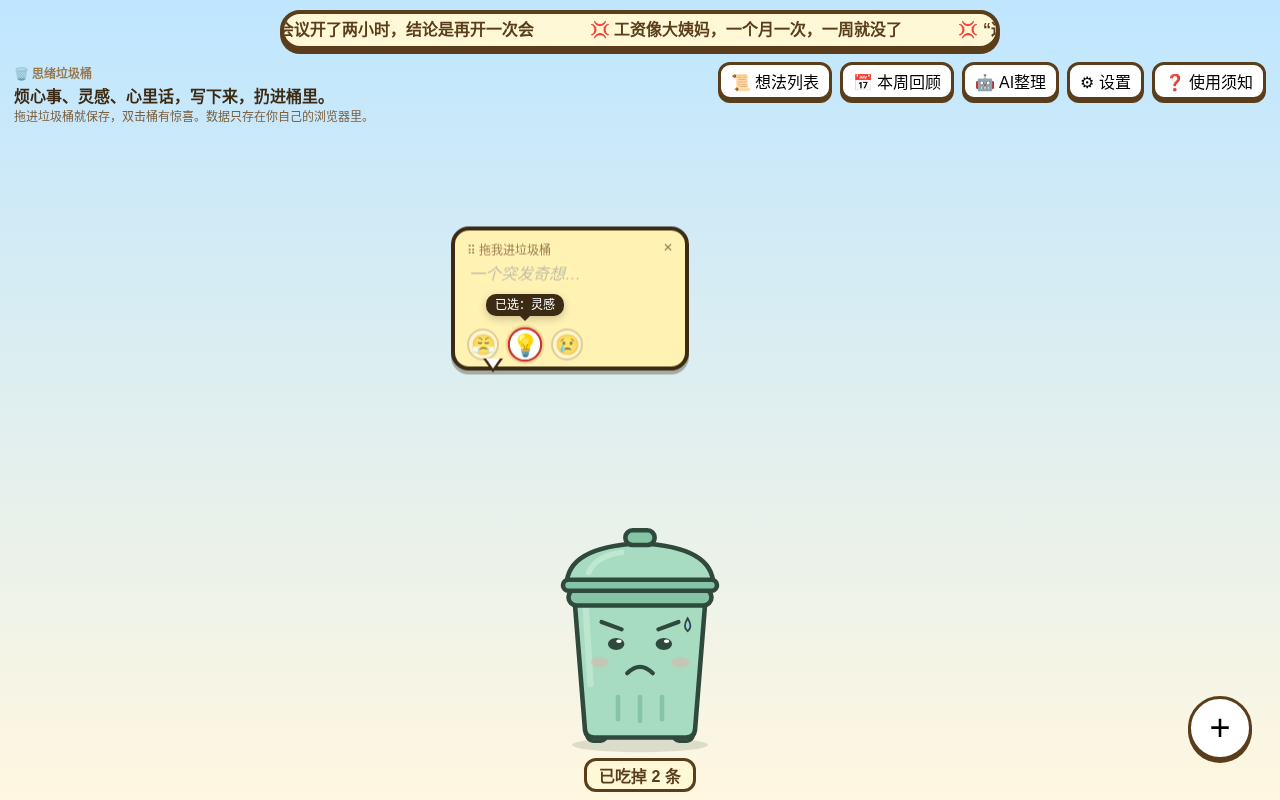
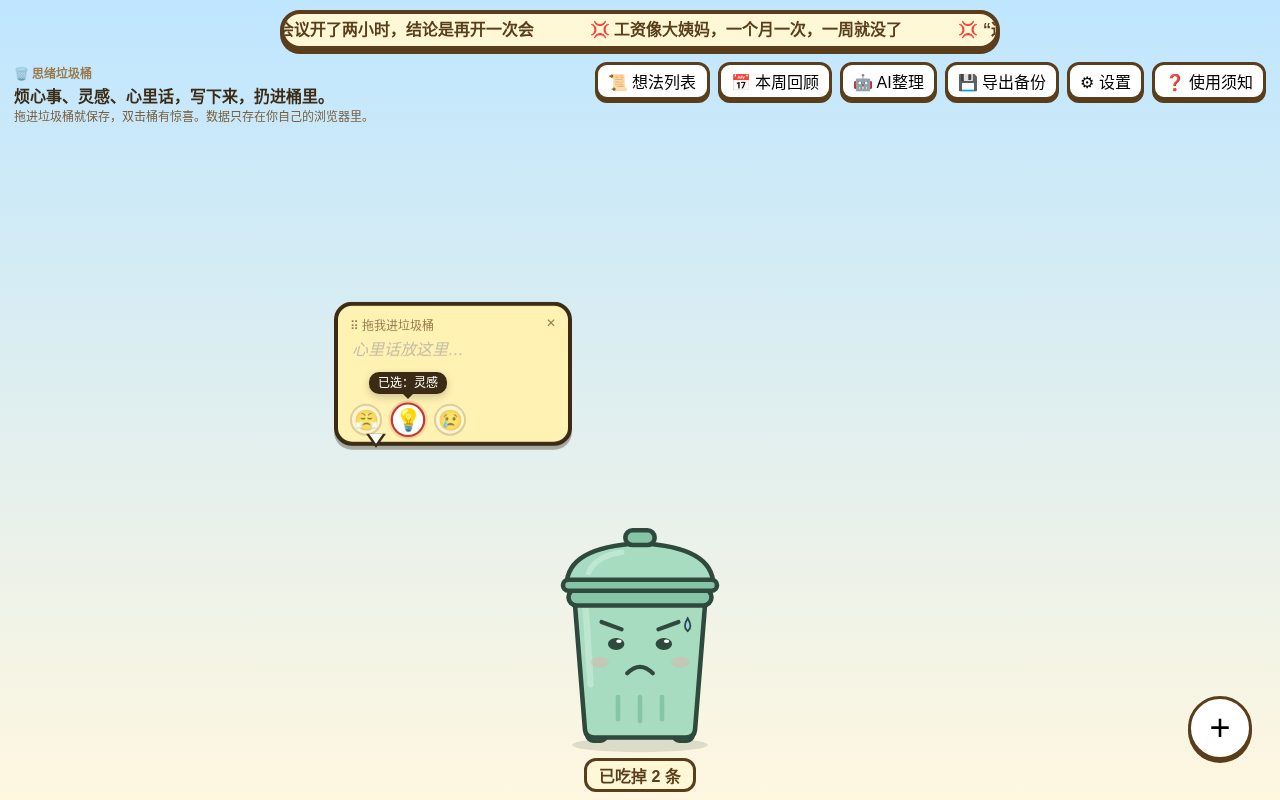
备份：工具栏「💾 导出备份」+ 未备份 10 条（之后每 +20 条）弹小提示
- 没选文件夹时才提醒，可关闭；点「导出备份」调用现有导出，导出后重新计数
- 使用须知补充导出备份、回顾分享
- 测试覆盖提醒档位、关闭、导出

Changed region(s): [[0.25, 0.2812, 0.5625, 0.5625], [0.4375, 0.0625, 0.8125, 0.1562]]

diff --git a/js/main.js b/js/main.js
@@ -13,6 +13,7 @@ import { initShortcuts } from './shortcuts.js';
 import * as cb from './custom-banner.js';
 import { initHelpPopover } from './help.js';
 import { initLanding, startTour } from './tour.js';
+import { maybeNudge } from './backup.js';
 
 const $ = s => document.querySelector(s);
 export function toast(msg, ms = 2200) { const t = $('#toast'); t.textContent = msg; t.classList.add('show'); clearTimeout(toast.t); toast.t = setTimeout(() => t.classList.remove('show'), ms); }
@@ -27,7 +28,7 @@ initBubbles($('#stage'), {
   onDrop: async (b, text, tag) => {
     b.remove(); trash.chew();
     try { const n = await store.saveNote(text, tag); trash.setCount(await store.countNotes()); toast(n.inFolder ? '嚼嚼嚼…已存进文件夹 📁' : '嚼嚼嚼…已存在浏览器里');
-      const u = await store.countUnsorted(); fill.renderPile(u, { afterChew: true }); if (fill.shouldBurp(u)) setTimeout(() => fill.burp(toast), 1000); refreshPanel(); }
+      const u = await store.countUnsorted(); fill.renderPile(u, { afterChew: true }); if (fill.shouldBurp(u)) setTimeout(() => fill.burp(toast), 1000); refreshPanel(); maybeNudge(); }
     catch (e) { console.error(e); toast('保存失败：' + e.message); }
   },
 });
@@ -68,6 +69,7 @@ $('#btn-list').onclick = () => openPanel('list');
 $('#btn-review').onclick = async () => review.showReview(await store.listNotes());
 $('#btn-ai').onclick = () => openPanel('ai');
 $('#btn-settings').onclick = () => openPanel('settings');
+$('#btn-backup').onclick = async () => { await store.exportAll(); document.getElementById('backup-nudge')?.remove(); toast('已导出全部想法（.md），存好这个文件就不怕丢'); };
 initHelpPopover($('#btn-help'), () => startTour(0));
 document.addEventListener('keydown', e => {
   if (e.key !== 'Escape') return;

diff --git a/js/backup.js b/js/backup.js
@@ -1,0 +1,19 @@
+// 备份提醒：没选文件夹时，未备份的想法攒到 10 条（之后每多 20 条）弹一个小提示，可一键导出
+import { countUnbacked, exportAll, folderName } from './storage.js';
+const KEY = 'ttb.nudged';
+export const nextThreshold = last => last ? last + 20 : 10;
+export async function maybeNudge() {
+  if (folderName()) return false;
+  const n = await countUnbacked(), last = +localStorage.getItem(KEY) || 0;
+  if (n < nextThreshold(last)) return false;
+  let t = n >= 10 ? 10 + Math.floor((n - 10) / 20) * 20 : 10; // 跨过多个档位时只提醒一次
+  localStorage.setItem(KEY, String(t)); show(n); return true;
+}
+function show(n) {
+  document.getElementById('backup-nudge')?.remove();
+  const el = document.createElement('div'); el.id = 'backup-nudge'; el.setAttribute('role', 'status');
+  el.innerHTML = `<span>已有 <b>${n}</b> 条想法只存在浏览器里，清缓存就没了～</span><button class="go">💾 导出备份</button><button class="x" aria-label="关闭">✕</button>`;
+  document.body.appendChild(el);
+  el.querySelector('.go').onclick = async () => { await exportAll(); el.remove(); };
+  el.querySelector('.x').onclick = () => el.remove();
+}

diff --git a/js/help.js b/js/help.js
@@ -4,7 +4,8 @@ const SECTIONS = [
   ['🗑 丢进桶', ['<b>拖进</b>垃圾桶，或<b>连点三下</b>对话框：保存', '空的不吃，会弹回来', '<b>双击</b>桶 / 2 秒<b>连点 5 下</b>：纸片爆出来', '没整理的多了桶会不开心；20 条打嗝，100 条喷纸']],
   ['📜 列表', ['搜索、按标签筛选、删除', '「加到横幅」·「导出全部 .md」']],
   ['🤖 AI整理', ['设置里填 DeepSeek 密钥后一键整理', '没密钥：一键复制整理提示词 → 豆包 / WorkBuddy']],
-  ['📅 本周回顾', ['各标签统计，可下载 PNG；周五自动弹一次']],
+  ['📅 本周回顾', ['各标签统计，可下载 PNG 或「分享」；周五自动弹一次']],
+  ['💾 导出备份', ['想法默认只存在浏览器里；点工具栏「导出备份」存成 .md']],
   ['⚙ 设置', ['选保存文件夹 · 我的横幅 · 密钥']],
   ['⌨ 快捷键', ['<kbd>N</kbd> / <kbd>Ctrl</kbd>+<kbd>Alt</kbd>+<kbd>N</kbd> 新建 · <kbd>Esc</kbd> 关闭面板 / 本卡片']],
 ];

diff --git a/css/style.css b/css/style.css
@@ -178,3 +178,8 @@ pre.result{white-space:pre-wrap;background:#fff;border:2px solid #ddd;padding:8p
 #tour-tip button{font-size:12px;padding:2px 10px;border-width:2px;box-shadow:none}
 #tour-tip .skip{background:transparent;color:#fff;border-color:#9a7b4f}
 #help-pop .help-tour{margin:6px 0 0}#help-pop .help-tour button{font-size:12px;padding:1px 8px;box-shadow:none;border-width:2px}
+/* 备份提醒小提示（左下，可关闭） */
+#backup-nudge{position:fixed;left:14px;bottom:14px;z-index:60;max-width:min(340px,70vw);display:flex;gap:6px;align-items:center;flex-wrap:wrap;background:#fffdf3;border:3px solid #5a3e1b;border-radius:12px;padding:6px 8px;font-size:12px;color:#3b2a14;box-shadow:0 4px 12px rgba(59,42,20,.2);animation:popin .15s ease}
+#backup-nudge span{flex:1 1 160px}
+#backup-nudge button{font-size:12px;padding:1px 8px;border-width:2px;box-shadow:none}
+#backup-nudge .x{padding:0 5px}

diff --git a/js/storage.js b/js/storage.js
@@ -100,4 +100,10 @@ export async function exportAll() {
   const notes = await listNotes();
   const md = `# 思绪垃圾桶 导出（共 ${notes.length} 条）\n\n` + notes.map(n => `## ${fmtFull(n.createdAt)}${n.tag ? ' #' + n.tag : ''}\n\n${n.text}\n`).join('\n---\n\n');
   download(fileName(Date.now(), '全部想法'), md);
+  localStorage.setItem('ttb.exportedAt', String(Date.now())); localStorage.removeItem('ttb.nudged');
+}
+// 还没备份到文件的条数：没存进文件夹、且在上次导出之后写的
+export async function countUnbacked() {
+  const since = +localStorage.getItem('ttb.exportedAt') || 0;
+  return (await listNotes()).filter(n => !n.inFolder && n.createdAt > since).length;
 }

diff --git a/index.html b/index.html
@@ -31,6 +31,7 @@
   <button id="btn-list">📜 想法列表</button>
   <button id="btn-review" title="本周回顾卡片（每周五自动弹出）">📅 本周回顾</button>
   <button id="btn-ai">🤖 AI整理</button>
+  <button id="btn-backup" title="把全部想法导出成一个 .md 文件，换浏览器或清缓存也不怕丢">💾 导出备份</button>
   <button id="btn-settings">⚙ 设置</button>
   <button id="btn-help" aria-label="使用须知：所有操作和快捷键">❓ 使用须知</button>
 </nav>

diff --git a/tests/smoke_test.py b/tests/smoke_test.py
@@ -315,6 +315,21 @@ with sync_playwright() as p:
     op.hover('#btn-help'); op.wait_for_selector('#help-pop.show'); op.click('#help-tour'); op.wait_for_selector('#tour-tip')
     op.click('#tour-tip .skip'); assert op.locator('#tour-tip').count() == 0
     oc.close(); print('落地页 + 引导（7 步 / 跳过 / 只一次 / 可重开）OK')
+    # 备份提醒：未备份 10 条弹一次，之后每 +20；工具栏「导出备份」可见
+    bc = b.new_context(viewport={'width': 1280, 'height': 800}, accept_downloads=True); bp = bc.new_page()
+    bp.on('console', lambda m: m.type == 'error' and errors.append(m.text)); bp.on('pageerror', lambda e: errors.append(str(e)))
+    bp.goto('http://127.0.0.1:8766/index.html'); bp.wait_for_selector('.bubble')
+    assert bp.locator('#toolbar #btn-backup').is_visible()
+    nudge = lambda k: bp.evaluate(f"async () => {{ const s = await import('/js/storage.js'); for (let i = 0; i < {k}; i++) await s.saveNote('备份测试 ' + i); return (await import('/js/backup.js')).maybeNudge(); }}")
+    assert nudge(9) is False and bp.locator('#backup-nudge').count() == 0
+    assert nudge(1) is True and bp.locator('#backup-nudge').is_visible()
+    bp.click('#backup-nudge .x'); assert bp.locator('#backup-nudge').count() == 0
+    assert nudge(19) is False and nudge(1) is True
+    with bp.expect_download() as bd: bp.click('#backup-nudge .go')
+    assert bd.value.suggested_filename.endswith('.md') and bp.locator('#backup-nudge').count() == 0
+    assert nudge(9) is False and nudge(1) is True  # 导出后重新计数
+    with bp.expect_download(): bp.click('#btn-backup')
+    bc.close(); print('备份提醒 + 工具栏导出备份 OK')
     # 回归：删除按钮（不依赖原生 confirm，Playwright 默认会自动取消原生弹窗 = 用户看到的「点了没反应」）
     # + 窗口较矮时第二次打开列表不能是空白（列表区曾被挤成 0 高度）
     dc = b.new_context(viewport={'width': 1280, 'height': 600}); dp = dc.new_page()
